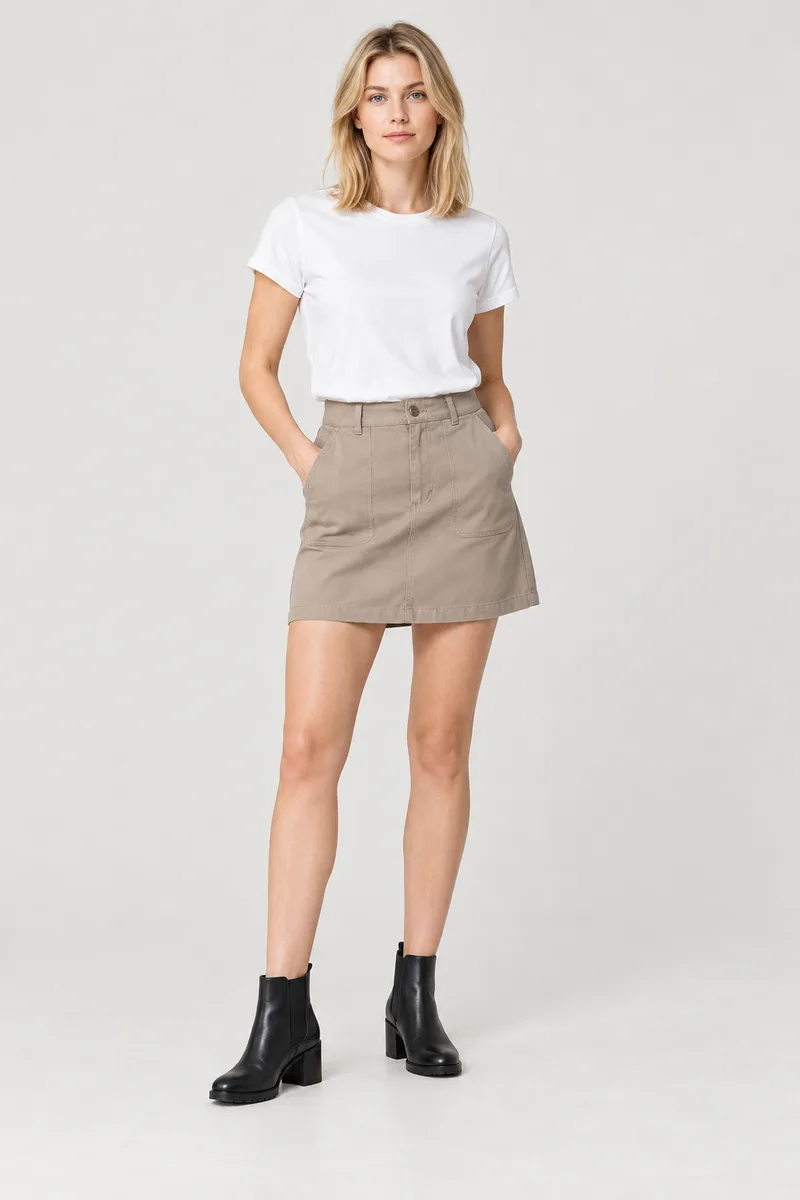
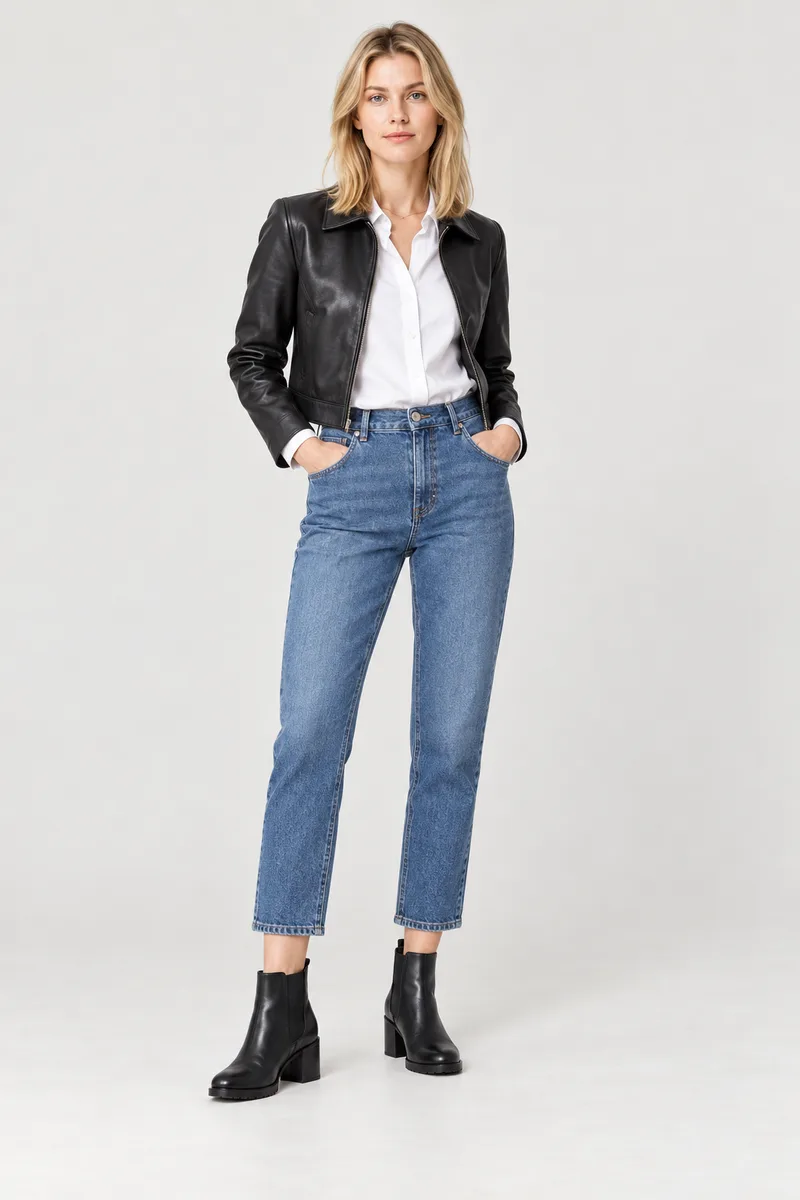
feat(images): restyle heels on-model shots to match each shoe

Changed region(s): [[0.25, 0.0925, 0.6875, 0.925], [0.5, 0.8633, 0.5938, 0.925]]

diff --git a/docs/IMAGES.md b/docs/IMAGES.md
@@ -20,7 +20,7 @@ For now every product gets **one model try-on shot and one product close-up** (f
 
 | File | Shot | Count |
 |---|---|---|
-| `public/products/<slug>/c0-1.webp` | **On-model, front** (core: full look; Atelier: legs-and-feet) — the main image, first colour of the product | 34 |
+| `public/products/<slug>/c0-1.webp` | **On-model, front** (full-length head-to-toe, shoes fully visible) — the main image, first colour of the product | 34 |
 | `public/products/<slug>/c0-2.webp` | **Product close-up**, first colour — fabric texture, stitching, buttons, zip; for shoes the heel, toe shape and material | 34 |
 | `public/campaign/hero-1.webp`, `hero-2.webp` | Campaign / lookbook, landscape 1536×1024, home hero | 2 |
 | `public/campaign/cat-<category>.webp` | On-model image representing the category, 6 category tiles | 6 |
@@ -50,7 +50,7 @@ Then add to each product in `data/products.json` (Phase 1):
 
 The ten Atelier products add exactly twenty Phase 1 files: `c0-1.webp` on-model front and `c0-2.webp` close-up, first colour only. Keep the existing 56 core/campaign assets; total Phase 1 is 76. No Phase 2 colour shots.
 
-Atelier uses a premium luxury studio look with deep charcoal #1A1A1A or warm off-white backdrops, soft controlled lighting and the recurring fictional adult cast. Frame legs and feet, with a plain black dress or tailored trousers. Boots must show the full shaft. No brand names or branded model identifiers in prompts. No logos, monograms, lettering, numerals, stamps, watermarks or visible text on any surface, including insoles, soles, buckles and packaging. Product names in data are descriptive; technical heights/prices/sizes remain necessary specifications.
+Atelier uses a premium luxury studio look with deep charcoal #1A1A1A or warm off-white backdrops, soft controlled lighting and the recurring fictional adult cast. Use full-length head-to-toe framing and the product-specific outfits in Heels styling below. Boots must show the full shaft. No brand names or branded model identifiers in prompts. No logos, monograms, lettering, numerals, stamps, watermarks or visible text on any surface, including insoles, soles, buckles and packaging. Product names in data are descriptive; technical heights/prices/sizes remain necessary specifications.
 
 Close-up requirements:
 
@@ -118,3 +118,27 @@ Clean product shot (`-p`):
 E-commerce studio product photo of a {nameEn} in {colorName} ({hex}), {apparel: invisible ghost-mannequin front view | skirts/pants: neat flat lay from above | shoes: single shoe, 3/4 side angle slightly from above, full shaft for boots}.
 Seamless warm light-grey background #EEECE8, soft diffused light, subtle natural shadow, centred with generous margins, portrait 2:3. No logos, no text, no people.
 ```
+
+## Heels styling
+
+Outfits for heels must match the shoe’s occasion; the shoe is always fully visible. Use the same fictional model as the existing product photo (face shape, hair colour, skin tone). Full-length framing, both shoes visible, hems clear of shoes and boot shafts; ankles and feet in focus. Quiet expensive fabrics, coordinated colours, no busy prints, fur or logos; minimal fine gold or silver jewellery only. Sandals and mules use bare legs and light fabrics; boots use autumn/winter layers. Atelier retains warm off-white or deep charcoal #1A1A1A studio styling. These outfits also apply to future Phase 2 images.
+
+| Product | Outfit |
+|---|---|
+| p20 | Oat ribbed knit sweater, grey pleated mini skirt, camel wool long coat worn open; chocolate boot shaft fully visible to the knee. |
+| p21 | White poplin shirt, black cropped faux-leather jacket, straight-leg mid-blue jeans hemmed at the ankle above the boot. |
+| p22 | Fitted white baby tee tucked into sage satin midi skirt, bare legs, ankle strap visible, warm summer daylight. |
+| p23 | Oversized charcoal wool blazer, crisp white shirt, slim black ankle-length cigarette trousers exposing ankle bone, sleek low bun; polished office look. |
+| p24 | White poplin shirt tucked into champagne satin midi skirt, small gold earrings; French ballet-chic, slight three-quarter angle showing back strap. |
+| p25 | Black bias-cut silk midi slip dress, bare legs, evening look; mid-stride or three-quarter rear pose with one heel lifted to show glossy red sole. |
+| p26 | Ivory silk blouse, pale blush A-line midi skirt, delicate gold jewellery; ankle strap and studs visible. |
+| p27 | Black tuxedo blazer with satin lapels, white silk camisole, slim black cropped tuxedo trousers, gold hoops; Parisian rock-chic. |
+| p28 | Black fitted fine-knit top, black knee-length tailored pencil skirt, bare legs and sleek hair; modern workwear. |
+| p29 | Ivory satin midi slip dress, bare legs, warm resort evening light; open toe and crystal strap facing camera. |
+| p30 | White tailored blazer and matching tailored shorts, bare legs; cocktail look, crystal strap facing camera. |
+| p31 | Ivory satin column dress ending mid-calf, elegant low chignon; crystal ankle chain visible, gala/bridal mood. |
+| p32 | Black fitted knit mini dress, long black wool coat worn open; small leg gap above boot top. |
+| p33 | Black turtleneck, knee-length camel wool skirt, long camel coat; boot visible from knee down. |
+| p34 | White shirt collar beneath cream cable-knit sweater, camel quilted jacket, slim dark-wash jeans tucked into riding boots; equestrian look. |
+
+The heels category cover uses the p25 evening outfit and red-sole pumps. Only c0-1 and the category cover are replaced for a styling update; c0-2 close-ups stay unchanged. Paths stay stable; clear `.next/cache/images` after replacing images.

diff --git a/docs/QA.md b/docs/QA.md
@@ -19,3 +19,16 @@
 页面截图：`qa/home-desktop.jpg`、`qa/home-mobile.jpg`、`qa/pdp-desktop.jpg`。
 
 小灰字的原设计 token 保留为 `--faint`。白底说明文字采用稍深的 #75726D，以满足 AGENTS.md 的 4.5:1 对比度硬规则；黑底页脚仍使用原 token。
+
+## Atelier 与 heels styling 验收
+
+- 十件 Atelier 产品 p25–p34 与提供的数据一致；核心 p01–p24 数据与更新前逐项一致。
+- `/atelier` 十款，`/c/heels` 十五款，首页专区按 p25、p26、p29、p31 排列；mules 为两款，p34 的 3cm 跟高归入低跟筛选。
+- 实测 p25 选 US 8、加购、NeverPay 模拟结算，含 HST 总额 $1,237.35；订单进入追踪页并加入衣柜。
+- 390px、1440px 检查两处列表，无横向滚动；十五张鞋履卡片均正确加载 c0-1，浏览器无 console error。
+- 新增 Atelier 摄影 20/20，其中十张上身照首次生成即使用指定穿搭。另替换五张核心上身照和高跟鞋分类封面，共六张重生成；十张 Atelier 上身照无需重复生成，指定十六张全部符合新造型。
+- 全部 c0-2 文件逐一与 Atelier 摄影提交进行二进制比较，保持不变。
+- 76 张 Phase 1 图片总计约 4.26 MB，WebP q82，最长边 ≤1200px，无 EXIF；未生成 Phase 2。清除了 `.next/cache/images`。
+- 最终提示词保存在 `data/image-manifest.json`，通过内置 imagegen 生成；所有最终资源位于 `public/products/` 与 `public/campaign/`。
+
+截图：`qa/atelier-mobile.jpg`、`qa/atelier-desktop.jpg`。
